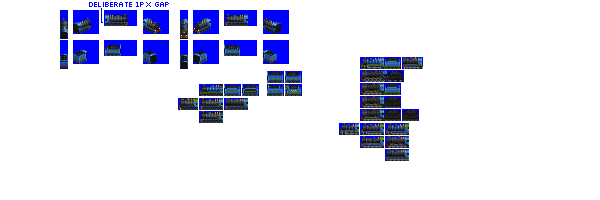
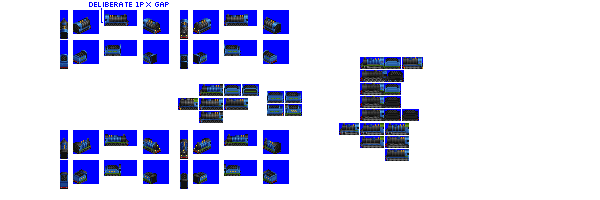
Change: tweaks to Girt Licker sprites complete

diff --git a/src/vehicles/girt_licker.py b/src/vehicles/girt_licker.py
@@ -10,7 +10,7 @@ def main(roster_id):
                             power=1800,
                             tractive_effort_coefficient=0.33,
                             gen=2,
-                            sprites_complete=False)
+                            sprites_complete=True)
 
     consist.add_unit(type=SteamEngineUnit,
                      weight=95,
